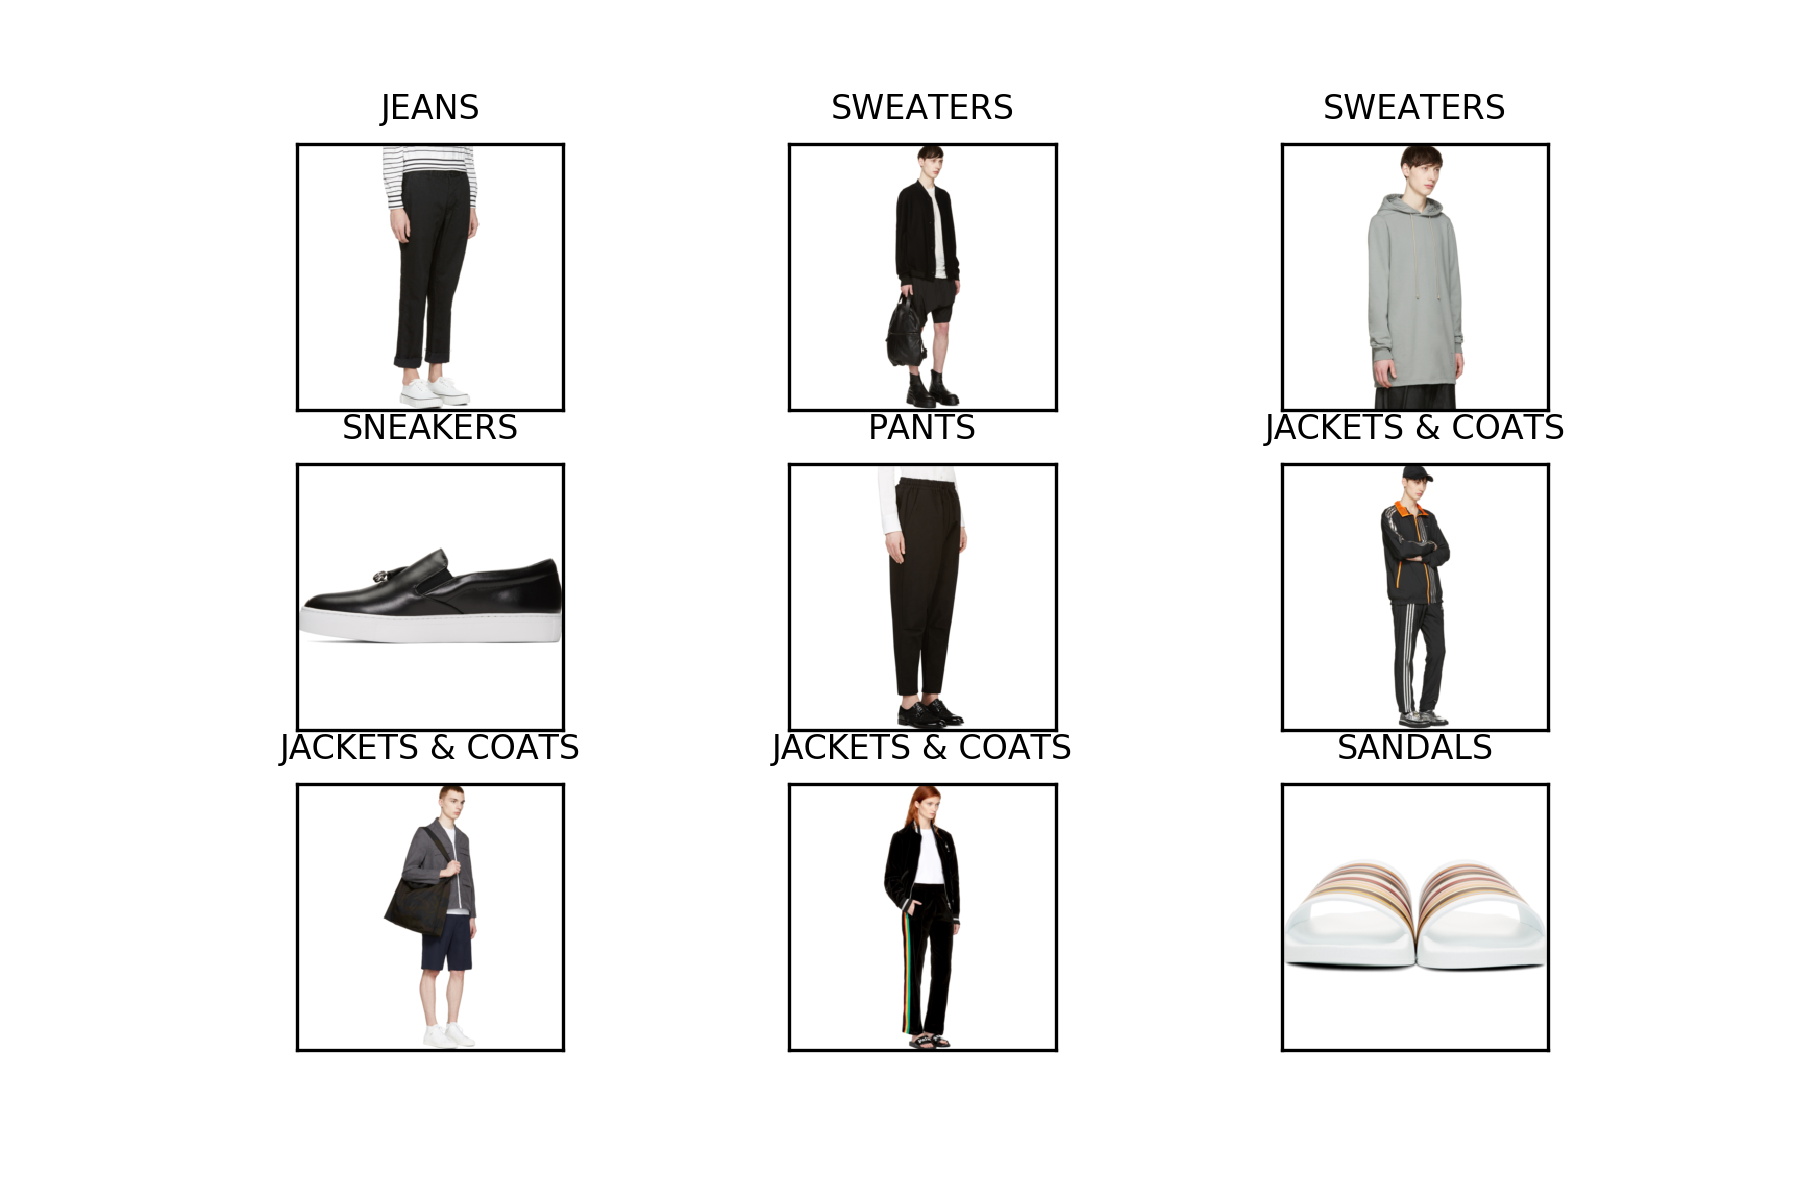
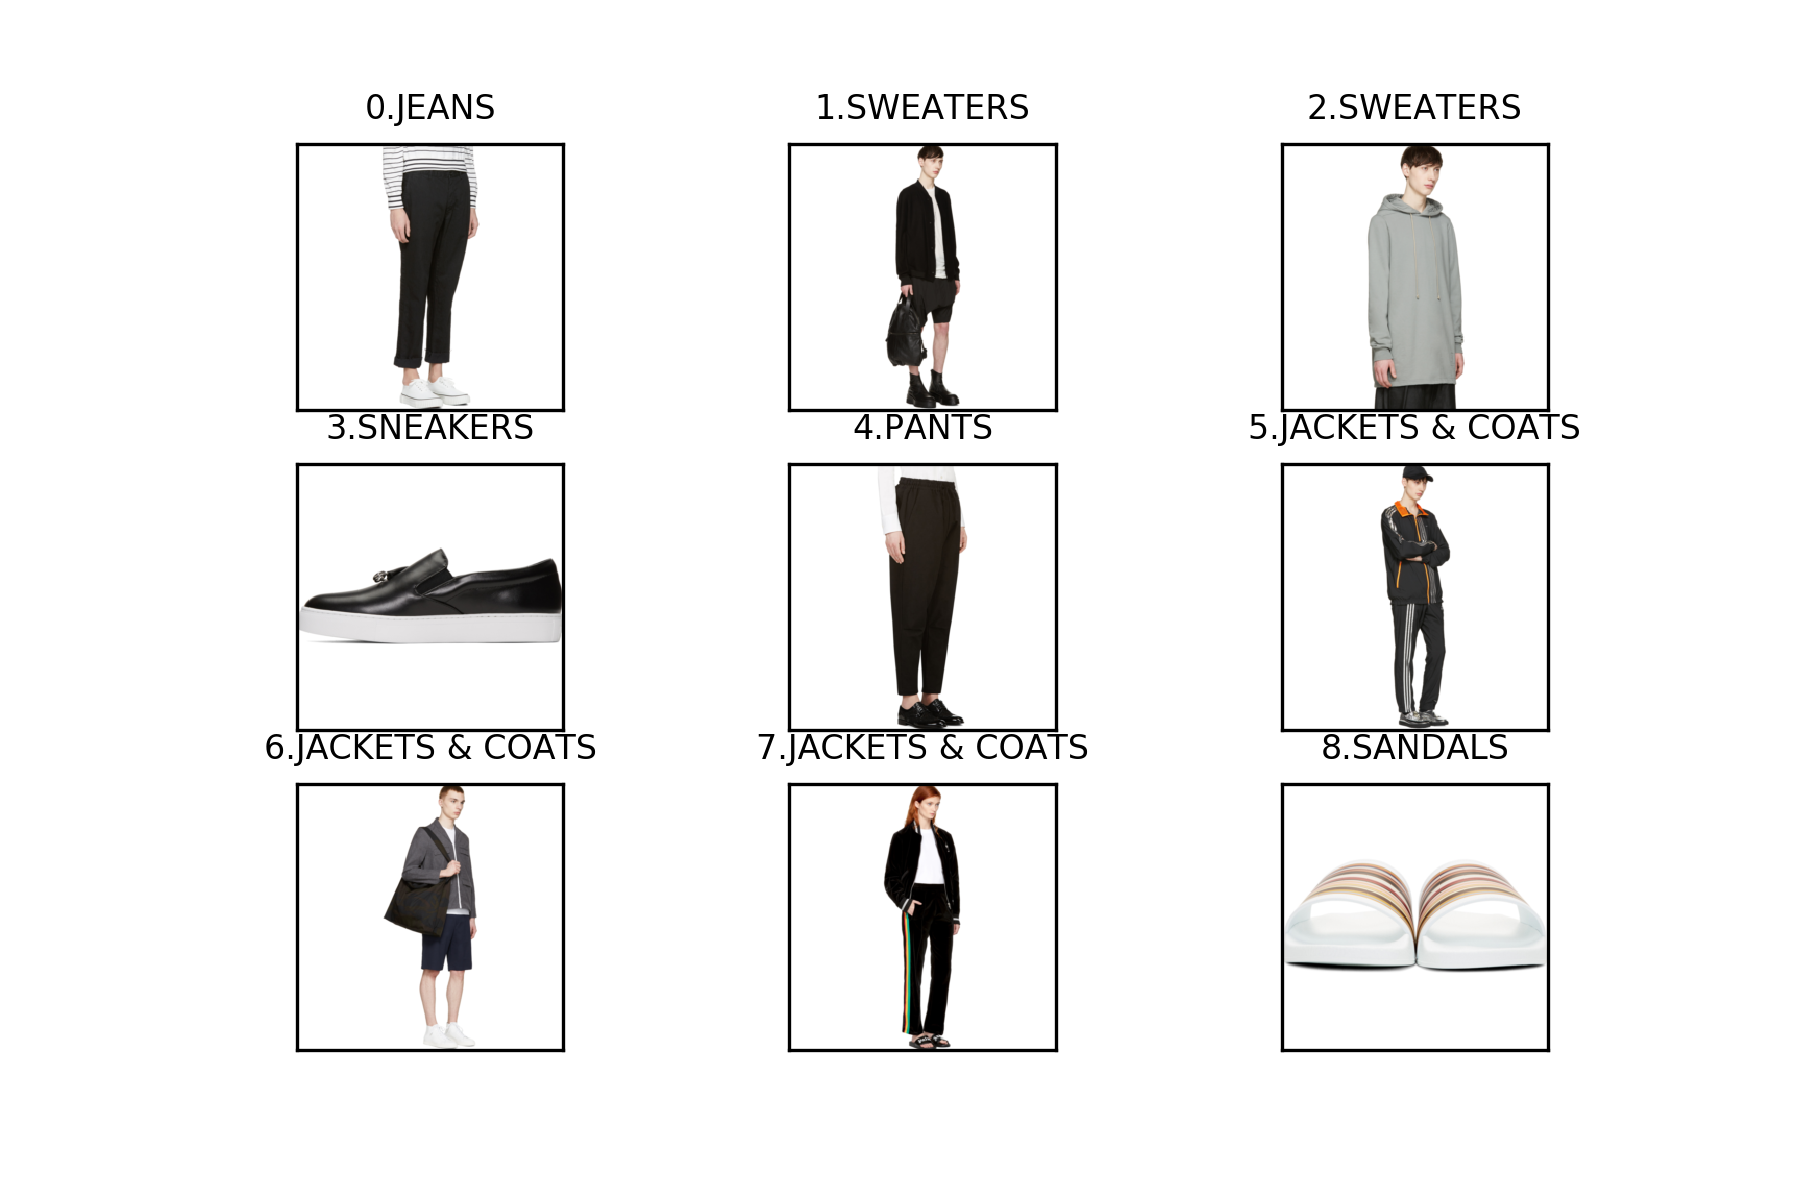
modify

diff --git a/FashionGen/README.md b/FashionGen/README.md
@@ -93,14 +93,14 @@
 
 对应的 Caption分别为： 
 
--  0-152775: Straight-leg Japanese denim jeans in black. Four-pocket styling. Raw edge at cuffs. Zip-fly. Tonal stitching. Approx. 6.75" leg opening.
-- 1-80627: Long sleeve jacquard knit bomber jacket in black. Rib knit stand collar, cuffs, and hem. Concealed zip closure with press-stud placket at front. Welt pockets at waist. Raglan sleeves. Asymmetric hem. Unlined. Tonal stitching.
-- 2-82295: Long sleeve hoodie in 'hustler' grey. Beige drawstring at hood. Ribbed sleeve cuffs. Fleece lining. Tonal stitching.
-- 3-155846: Buffed leather slip-on sneakers in black. Round toe. Signature safety pin hardware at vamp. Elasticized gusset at sides of tongue. Padded collar. Treaded rubber sole in white featuring rubberized logo at heel. Silver-tone hardware. Tonal stitching.
-- 4-12381: Cropped relaxed-fit sarouel pants in black. Four-pocket styling. Elasticized waistband with tonal drawstring. Pleat feature at kneecaps. Tonal stitching.
-- 5-157450: Long sleeve technical satin jacket in black. Trim in orange throughout. Stand collar. Two-way zip closure at front. Logo printed in silver-tone at chest and upper sleeve. Zippered pockets at waist. Signature stripes in metallic silver-tone at body and sleeve. Raglan sleeves. Elasticized cuffs and hem. Unlined. Tonal stitching.
-- 6-80746: Long sleeve woven jacket in charcoal grey. Peaked lapel collar. Zip closure in white at front. Flap pockets at body. Raglan sleeves. Central vent at back hem. Tonal stitching.
-- 7-193990: Long sleeve velvet bomber jacket in black. Rib knit stand collar, cuffs, and hem striped in black and metallic silver-tone. Zip closure at front. Logo appliqu at bust. Welt pockets at waist. Zippered vents at cuffs. Fully lined. Silver-tone hardware. Tonal stitching.
-- 8-228736: Rubber slip-on sandals in white. Open round toe. Signature multicolor stripes printed at vamp. Moulded footbed. Tonal rubber sole. Tonal stitching.
+-  **0-152775-JEANS**: Straight-leg Japanese denim jeans in black. Four-pocket styling. Raw edge at cuffs. Zip-fly. Tonal stitching. Approx. 6.75" leg opening. 
+-  **1-80627-SWEATERS**: Long sleeve jacquard knit bomber jacket in black. Rib knit stand collar, cuffs, and hem. Concealed zip closure with press-stud placket at front. Welt pockets at waist. Raglan sleeves. Asymmetric hem. Unlined. Tonal stitching.
+-  **2-82295-SWEATERS**: Long sleeve hoodie in 'hustler' grey. Beige drawstring at hood. Ribbed sleeve cuffs. Fleece lining. Tonal stitching.
+-  **3-155846-SNEAKERS**: Buffed leather slip-on sneakers in black. Round toe. Signature safety pin hardware at vamp. Elasticized gusset at sides of tongue. Padded collar. Treaded rubber sole in white featuring rubberized logo at heel. Silver-tone hardware. Tonal stitching.
+-  **4-12381-PANTS**: Cropped relaxed-fit sarouel pants in black. Four-pocket styling. Elasticized waistband with tonal drawstring. Pleat feature at kneecaps. Tonal stitching.
+-  **5-157450-JACKETS & COATS:** Long sleeve technical satin jacket in black. Trim in orange throughout. Stand collar. Two-way zip closure at front. Logo printed in silver-tone at chest and upper sleeve. Zippered pockets at waist. Signature stripes in metallic silver-tone at body and sleeve. Raglan sleeves. Elasticized cuffs and hem. Unlined. Tonal stitching.
+-  **6-80746-JACKETS & COATS**: Long sleeve woven jacket in charcoal grey. Peaked lapel collar. Zip closure in white at front. Flap pockets at body. Raglan sleeves. Central vent at back hem. Tonal stitching.
+-  **7-193990-JACKETS & COATS:** Long sleeve velvet bomber jacket in black. Rib knit stand collar, cuffs, and hem striped in black and metallic silver-tone. Zip closure at front. Logo appliqu at bust. Welt pockets at waist. Zippered vents at cuffs. Fully lined. Silver-tone hardware. Tonal stitching.
+-  **8-228736-SANDALS**: Rubber slip-on sandals in white. Open round toe. Signature multicolor stripes printed at vamp. Moulded footbed. Tonal rubber sole. Tonal stitching.
 
 （第二个 id 为图像在数据集中的索引，均来自于训练集）
